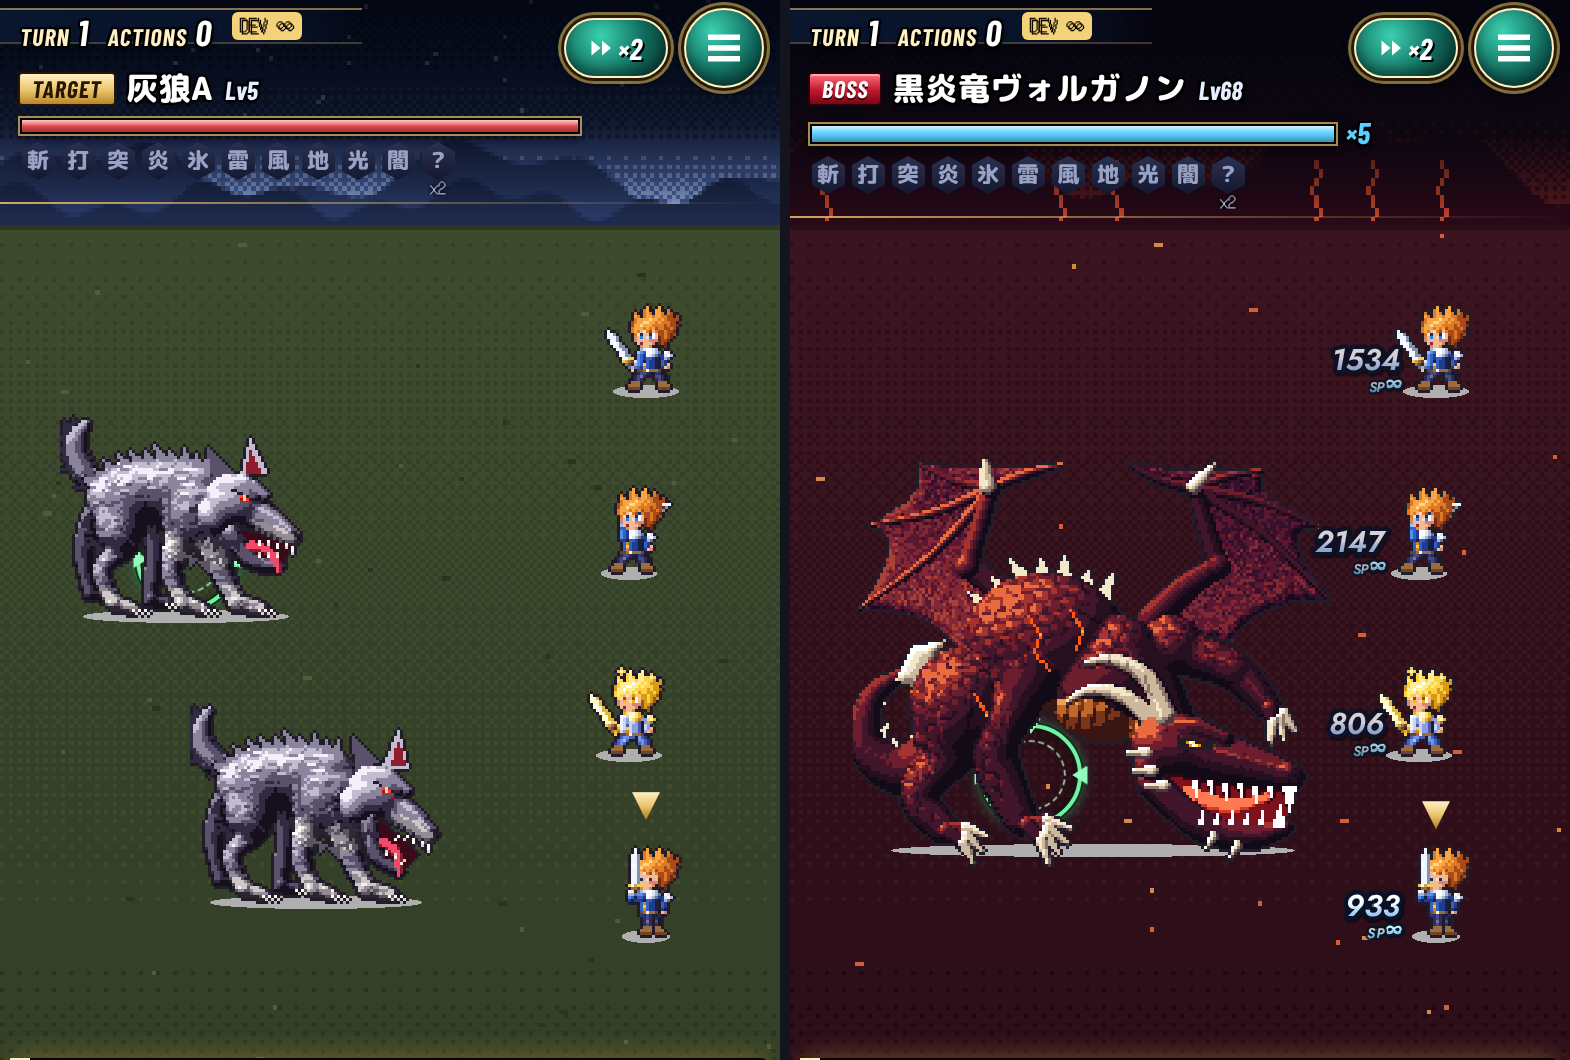
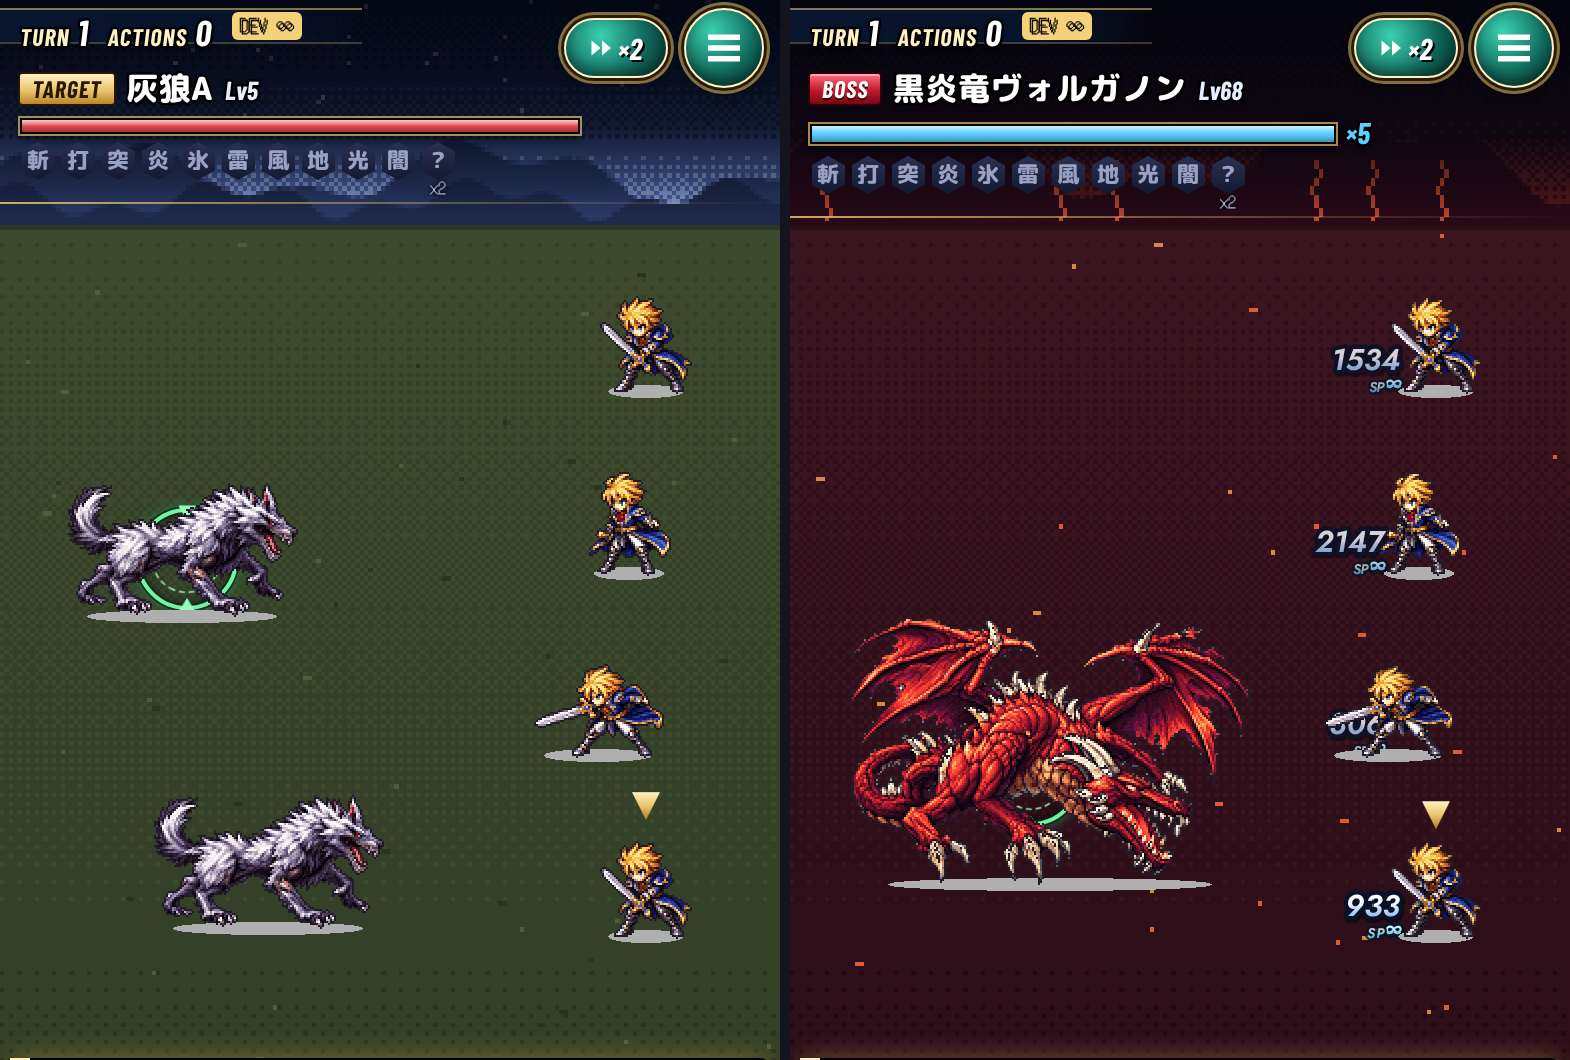
提供原画をゲーム用ドット絵へ変換するツールとパイロット第5版（竜・狼・剣士7ポーズ）
Claude-Session: https://claude.ai/code/session_01M46CfdX7v7YySa4b2R5nzB

diff --git a/tools/import_art.py b/tools/import_art.py
@@ -1,0 +1,157 @@
+#!/usr/bin/env python3
+"""提供された原画（高解像度のドット絵風画像）を、ゲーム用のドット絵スプライトへ変換する。
+
+ 手順：背景を抜く → ゲームの格子（1ドット=一定）へ面積平均で縮める → 透明/不透明を二値化 →
+       色数を絞る（ディザなし）→ 外周に 1 ドットの暗色輪郭を付け直す → 孤立ドットを掃除
+ どの原画も同じドット倍率に揃えるため、target（出来上がりの幅 or 高さ・ドット）を指定する。
+
+ usage（モジュールとして）:
+   from import_art import convert, split_cells
+"""
+import numpy as np
+from PIL import Image, ImageFilter
+from collections import deque
+
+OUT = (34, 28, 40)   # 共通輪郭色 #221c28
+
+def _flood_bg(rgb, bg, tol):
+    """画像の縁から、背景色に近い領域を塗りつぶして背景マスクを得る。"""
+    h, w, _ = rgb.shape
+    near = (np.abs(rgb.astype(int) - np.array(bg)[None, None, :]).sum(axis=2) <= tol)
+    seen = np.zeros((h, w), bool); dq = deque()
+    for x in range(w):
+        for y in (0, h - 1):
+            if near[y, x] and not seen[y, x]: seen[y, x] = True; dq.append((y, x))
+    for y in range(h):
+        for x in (0, w - 1):
+            if near[y, x] and not seen[y, x]: seen[y, x] = True; dq.append((y, x))
+    while dq:
+        y, x = dq.popleft()
+        for dy, dx in ((1, 0), (-1, 0), (0, 1), (0, -1)):
+            yy, xx = y + dy, x + dx
+            if 0 <= yy < h and 0 <= xx < w and near[yy, xx] and not seen[yy, xx]: seen[yy, xx] = True; dq.append((yy, xx))
+    return seen, near
+
+def _components(mask):
+    """連結成分ラベル（4近傍）。→ (ラベル配列, [面積...])"""
+    h, w = mask.shape; lab = np.zeros((h, w), np.int32); areas = [0]; n = 0
+    for sy in range(h):
+        for sx in range(w):
+            if mask[sy, sx] and not lab[sy, sx]:
+                n += 1; lab[sy, sx] = n; dq = deque([(sy, sx)]); a = 0
+                while dq:
+                    y, x = dq.popleft(); a += 1
+                    for dy, dx in ((1, 0), (-1, 0), (0, 1), (0, -1)):
+                        yy, xx = y + dy, x + dx
+                        if 0 <= yy < h and 0 <= xx < w and mask[yy, xx] and not lab[yy, xx]: lab[yy, xx] = n; dq.append((yy, xx))
+                areas.append(a)
+    return lab, areas
+
+def cutout(im, bg='auto', tol=60, hole_area=400, hole_tol=18):
+    """背景を透明にした RGBA(float) を返す。bg='alpha' は元の透明度を使う。
+    hole_area：輪郭に囲まれて縁とつながらない背景（尾の輪の内側など）を、面積で判定して抜く。"""
+    a = np.array(im.convert('RGBA')).astype(np.float32)
+    if bg == 'alpha':
+        alpha = a[..., 3] / 255.0
+    else:
+        rgb = a[..., :3]
+        if bg == 'auto': bg = tuple(int(v) for v in np.median(np.concatenate([rgb[:4].reshape(-1, 3), rgb[-4:].reshape(-1, 3)]), axis=0))
+        seen, _ = _flood_bg(rgb, bg, tol)
+        if hole_area:
+            strict = (np.abs(rgb.astype(int) - np.array(bg)[None, None, :]).sum(axis=2) <= hole_tol) & ~seen
+            # 高速化のため 1/2 に縮めてラベル付け
+            sm = strict[::2, ::2]; lab, areas = _components(sm)
+            big = np.isin(lab, [i for i, ar in enumerate(areas) if ar * 4 >= hole_area and i > 0])
+            seen |= np.kron(big, np.ones((2, 2), bool))[:seen.shape[0], :seen.shape[1]] & strict
+        alpha = (~seen).astype(np.float32)
+    a[..., 3] = alpha * 255
+    return a
+
+def downscale(a, size):
+    """面積平均（アルファ乗算済み）で size=(w,h) へ縮める → RGB(float), alpha(0..1)"""
+    al = a[..., 3:4] / 255.0; pre = np.concatenate([a[..., :3] * al, al * 255], axis=2).clip(0, 255).astype(np.uint8)
+    chans = [np.array(Image.fromarray(pre[..., i]).resize(size, Image.BOX)).astype(np.float32) for i in range(4)]
+    al2 = chans[3] / 255.0; rgb = np.stack(chans[:3], axis=2) / np.maximum(al2[..., None], 1e-3)
+    return rgb.clip(0, 255), al2
+
+def quantize(rgb, mask, colors=32, sharpen=0.6):
+    """不透明部分だけで色数を絞る（ディザなし）。sharpen：縮小で甘くなった明暗差を少し戻す。"""
+    img = Image.fromarray(rgb.astype(np.uint8), 'RGB')
+    if sharpen: img = img.filter(ImageFilter.UnsharpMask(radius=1, percent=int(sharpen * 100), threshold=0))
+    arr = np.array(img)
+    pix = arr[mask]
+    strip = Image.fromarray(pix.reshape(1, -1, 3), 'RGB').quantize(colors=colors, method=Image.MEDIANCUT, dither=Image.NONE, kmeans=3)
+    pal = np.array(strip.getpalette()[:colors * 3]).reshape(-1, 3); idx = np.array(strip).reshape(-1)
+    used = sorted(set(idx.tolist())); remap = {u: i + 1 for i, u in enumerate(used)}
+    out = np.zeros(mask.shape, np.uint8); out[mask] = [remap[i] for i in idx]
+    return out, ['#%02x%02x%02x' % tuple(pal[u]) for u in used]
+
+def clean_mask(mask, min_area=6):
+    """本体から離れた小さなゴミ（数ドットの飛び）を消す。"""
+    lab, areas = _components(mask)
+    keep = [i for i, ar in enumerate(areas) if ar >= min_area and i > 0]
+    return np.isin(lab, keep)
+
+def add_outline(idx, pal, col=OUT, dark_edge=True):
+    """外周に 1 ドットの輪郭を付ける。既に十分暗い縁はそのまま（線が二重に太らないよう、内側は触らない）。"""
+    h, w = idx.shape; solid = idx > 0
+    hexc = '#%02x%02x%02x' % col
+    if hexc not in pal: pal = pal + [hexc]
+    oi = pal.index(hexc) + 1
+    lum = np.array([0] + [int(c[1:3], 16) * .3 + int(c[3:5], 16) * .59 + int(c[5:7], 16) * .11 for c in pal])
+    out = np.pad(idx, 1); sp = np.pad(solid, 1)
+    near = sp[:-2, 1:-1] | sp[2:, 1:-1] | sp[1:-1, :-2] | sp[1:-1, 2:]
+    inner = out[1:-1, 1:-1]
+    # 縁のドットが暗ければ（元絵の輪郭が残っていれば）外側には足さず、その縁を輪郭色に置き換える
+    edge = solid & ~(sp[:-2, 1:-1] & sp[2:, 1:-1] & sp[1:-1, :-2] & sp[1:-1, 2:])
+    res = np.zeros((h + 2, w + 2), np.uint8); res[1:-1, 1:-1] = idx
+    if dark_edge:
+        dk = edge & (lum[idx] < 70)
+        res[1:-1, 1:-1][dk] = oi
+        # 明るい縁の外側にだけ輪郭を足す
+        bright = np.pad(edge & ~dk, 1)
+        nb = bright[:-2, 1:-1] | bright[2:, 1:-1] | bright[1:-1, :-2] | bright[1:-1, 2:]
+        nb_full = np.zeros((h + 2, w + 2), bool)
+        bp = np.pad(edge & ~dk, 2)
+        nb_full = bp[:-2, 1:-1] | bp[2:, 1:-1] | bp[1:-1, :-2] | bp[1:-1, 2:]
+        res[(res == 0) & nb_full] = oi
+    else:
+        sp2 = np.pad(solid, 2); nb_full = sp2[:-2, 1:-1] | sp2[2:, 1:-1] | sp2[1:-1, :-2] | sp2[1:-1, 2:]
+        res[(res == 0) & nb_full] = oi
+    return res, pal
+
+def to_image(idx, pal):
+    lut = np.zeros((len(pal) + 1, 4), np.uint8)
+    for i, c in enumerate(pal): lut[i + 1] = (int(c[1:3], 16), int(c[3:5], 16), int(c[5:7], 16), 255)
+    return Image.fromarray(lut[idx], 'RGBA')
+
+def convert(im, target_w=None, target_h=None, bg='auto', tol=60, colors=32, sharpen=0.6, crop=True, k=None, hole_area=400, hole_tol=18):
+    """原画 1 枚 → (index配列, パレット)。target_w / target_h のどちらか（ドット）を指定。"""
+    a = cutout(im, bg, tol, hole_area=hole_area, hole_tol=hole_tol)
+    if crop:
+        ys, xs = np.where(a[..., 3] > 127); a = a[ys.min():ys.max() + 1, xs.min():xs.max() + 1]
+    h, w = a.shape[:2]
+    k = k or ((target_w / w) if target_w else (target_h / h))
+    size = (max(1, round(w * k)), max(1, round(h * k)))
+    rgb, al = downscale(a, size); mask = clean_mask(al >= 0.5)
+    idx, pal = quantize(rgb, mask, colors, sharpen)
+    idx, pal = add_outline(idx, pal)
+    return idx, pal, k
+
+def split_cells(im, min_gap=6, alpha_th=40):
+    """横に並んだ複数ポーズの画像を、透明な縦の隙間で切り分ける。→ [Image...]"""
+    a = np.array(im.convert('RGBA')); col = (a[..., 3] > alpha_th).sum(axis=0) > 0
+    cells = []; x = 0; w = len(col)
+    while x < w:
+        if col[x]:
+            x0 = x
+            while x < w:
+                if not col[x]:
+                    g = x
+                    while g < w and not col[g]: g += 1
+                    if g - x >= min_gap or g >= w: break
+                    x = g
+                else: x += 1
+            cells.append(im.crop((x0, 0, x, im.height)))
+        else: x += 1
+    return cells

diff --git a/tools/pilot_user.py b/tools/pilot_user.py
@@ -1,0 +1,40 @@
+#!/usr/bin/env python3
+"""提供原画（assets_src/originals）をゲーム用スプライト（assets/sprites）へ変換し、確認シートと実寸モックを docs/pilot に出す。
+usage: python3 tools/pilot_user.py [ユニット非表示の戦闘スクショA 同B]"""
+import sys, os
+from PIL import Image, ImageDraw
+sys.path.insert(0, os.path.dirname(__file__))
+from import_art import convert, split_cells, to_image
+ROOT = os.path.join(os.path.dirname(__file__), '..'); SRC = os.path.join(ROOT, 'assets_src', 'originals'); DST = os.path.join(ROOT, 'assets', 'sprites'); PIL_ = os.path.join(ROOT, 'docs', 'pilot')
+HERO_K = 52 / 289            # 剣士：立ち姿の高さが約 52 ドットになる倍率（全ポーズ共通）
+HERO_POSES = ['front', 'ready', 'stance', 'lunge', 'dash', 'back', 'down']
+def build():
+    out = {}
+    idx, pal, _ = convert(Image.open(os.path.join(SRC, 'boss9_volganon.png')), target_w=200, tol=40, colors=32, hole_area=150, hole_tol=40); out['boss9'] = to_image(idx, pal)
+    idx, pal, _ = convert(Image.open(os.path.join(SRC, 'wolf.png')), target_w=116, tol=70, colors=24); out['wolf'] = to_image(idx, pal)
+    for n, c in zip(HERO_POSES, split_cells(Image.open(os.path.join(SRC, 'hero_swordsman_7poses.png')), min_gap=20)):
+        idx, pal, _ = convert(c, bg='alpha', colors=32, k=HERO_K); out['hero_' + n] = to_image(idx, pal)
+    for k, im in out.items(): im.save(os.path.join(DST, k + '.png'))
+    return out
+if __name__ == '__main__':
+    S = build(); print({k: v.size for k, v in S.items()})
+    sc = 4; hs = [S['hero_' + n] for n in HERO_POSES]; d, w = S['boss9'], S['wolf']
+    sheet = Image.new('RGBA', (max(d.width * sc + w.width * sc + 40, sum(i.width * sc + 12 for i in hs) + 16), d.height * sc + max(i.height for i in hs) * sc + 70), (58, 70, 52, 255)); dr = ImageDraw.Draw(sheet)
+    dr.text((8, 4), 'converted from supplied art  (game grid, x4)   boss %dx%d   wolf %dx%d   hero h=%d' % (d.width, d.height, w.width, w.height, hs[0].height), fill='white')
+    sheet.alpha_composite(d.resize((d.width * sc, d.height * sc), Image.NEAREST), (8, 20)); sheet.alpha_composite(w.resize((w.width * sc, w.height * sc), Image.NEAREST), (d.width * sc + 30, 20 + (d.height - w.height) * sc))
+    x = 8; y = 30 + d.height * sc
+    for n, im in zip(HERO_POSES, hs):
+        sheet.alpha_composite(im.resize((im.width * sc, im.height * sc), Image.NEAREST), (x, y + (max(i.height for i in hs) - im.height) * sc)); dr.text((x, y + max(i.height for i in hs) * sc + 2), n, fill='#dddddd'); x += im.width * sc + 12
+    sheet.save(os.path.join(PIL_, 'pilot_sheet.png'))
+    if len(sys.argv) > 2:
+        DOT = 2; SCL = 780 / 180.0; outs = []
+        def paste(bg, im, fx, fy, ax=None):
+            big = im.resize((im.width * DOT, im.height * DOT), Image.NEAREST); ax = im.width // 2 if ax is None else ax
+            dd = ImageDraw.Draw(bg, 'RGBA'); ww = im.width * DOT * .4; dd.ellipse([int(fx * SCL) - ww, int(fy * SCL) - 5, int(fx * SCL) + ww, int(fy * SCL) + 7], fill=(0, 0, 0, 80))
+            bg.alpha_composite(big, (int(fx * SCL) - ax * DOT, int(fy * SCL) - (im.height - 2) * DOT))
+        for path, en in ((sys.argv[1], [(w, 42, 142), (w, 62, 214)]), (sys.argv[2], [(d, 60, 204)])):
+            bg = Image.open(path).convert('RGBA')
+            for im, fx, fy in en: paste(bg, im, fx, fy)
+            for n, (fx, fy) in zip(['stance', 'ready', 'lunge', 'stance'], [[149.2, 90], [145.2, 132], [138, 174], [149.2, 216]]): paste(bg, S['hero_' + n], fx, fy)
+            outs.append(bg.crop((0, 0, 780, 1060)))
+        m = Image.new('RGBA', (1570, 1060), (20, 20, 30, 255)); m.paste(outs[0], (0, 0)); m.paste(outs[1], (790, 0)); m.save(os.path.join(PIL_, 'pilot_ingame.png'))

diff --git a/PROGRESS.md b/PROGRESS.md
@@ -1,4 +1,4 @@
-# ドット絵全面刷新：進捗（最終更新：パイロット第4版提出・承認待ち）
+# ドット絵全面刷新：進捗（最終更新：提供原画を使ったパイロット第5版提出・承認待ち）
 
 ## いまの状態
 - **Phase 0 完了**：現状調査。全キャラは Canvas 手続き生成リグ（`SPRX.frame`）。一覧は `assets_manifest.json`。
@@ -8,6 +8,15 @@
   - 味方：リオ（RS規格 48×48セル・約20×30ドット・23フレーム＋星臨）
   - 通常敵：灰狼（約78×50ドット）／ボス：黒炎竜ヴォルガノン（約155×120ドット）
 - Phase 3〜6：未着手（承認後に開始）
+
+## 【最新方針】提供原画を正解素材として使う（ユーザー指示）
+- ユーザー提供の原画3点を `assets_src/originals/` に保存：`boss9_volganon.png`（赤い竜）／`wolf.png`／`hero_swordsman_7poses.png`（金髪の剣士7ポーズ）。
+- `tools/import_art.py` で「背景抜き → ゲームの格子へ面積平均で縮小 → 二値アルファ → 減色（ディザなし）→ 外周に1ドット輪郭」を行い `assets/sprites/*.png` へ。
+  `tools/pilot_user.py` が変換と確認シート・実寸モックの生成をまとめて行う。
+- 出来上がり寸法（1ドット≒1CSSpx 想定）：竜 202×136／狼 118×69／剣士 高さ約54（全ポーズ同一倍率 52/289）。
+- 原画は 1 ドットが 4〜6.6px とまちまちで整数格子に乗っていないため、原寸のままは使えない（＝必ずこの変換を通す）。
+- **未決（ユーザーへ確認中）**：残り40体の敵と11人の味方の原画をどう用意するか／剣士の原画はリオの新デザインか／不足ポーズ（歩き・詠唱・被弾・瀕死・勝利・防御）。
+- これまでの自作パイロット（tools/pxl/*）は不採用。原画が届かないキャラの代替手段としてのみ残してある。
 
 ## パイロット第3版で変えたこと（ユーザー指示：参考資料の描き方をより忠実に／繋ぎ目を自然に／味方の描き込み）
 - 敵・ボス：部品を個別に陰影付けして線で区切る方式をやめ、`Cv.sculpt()` で 1 つの連続した立体面に融合してから光を当てる。
